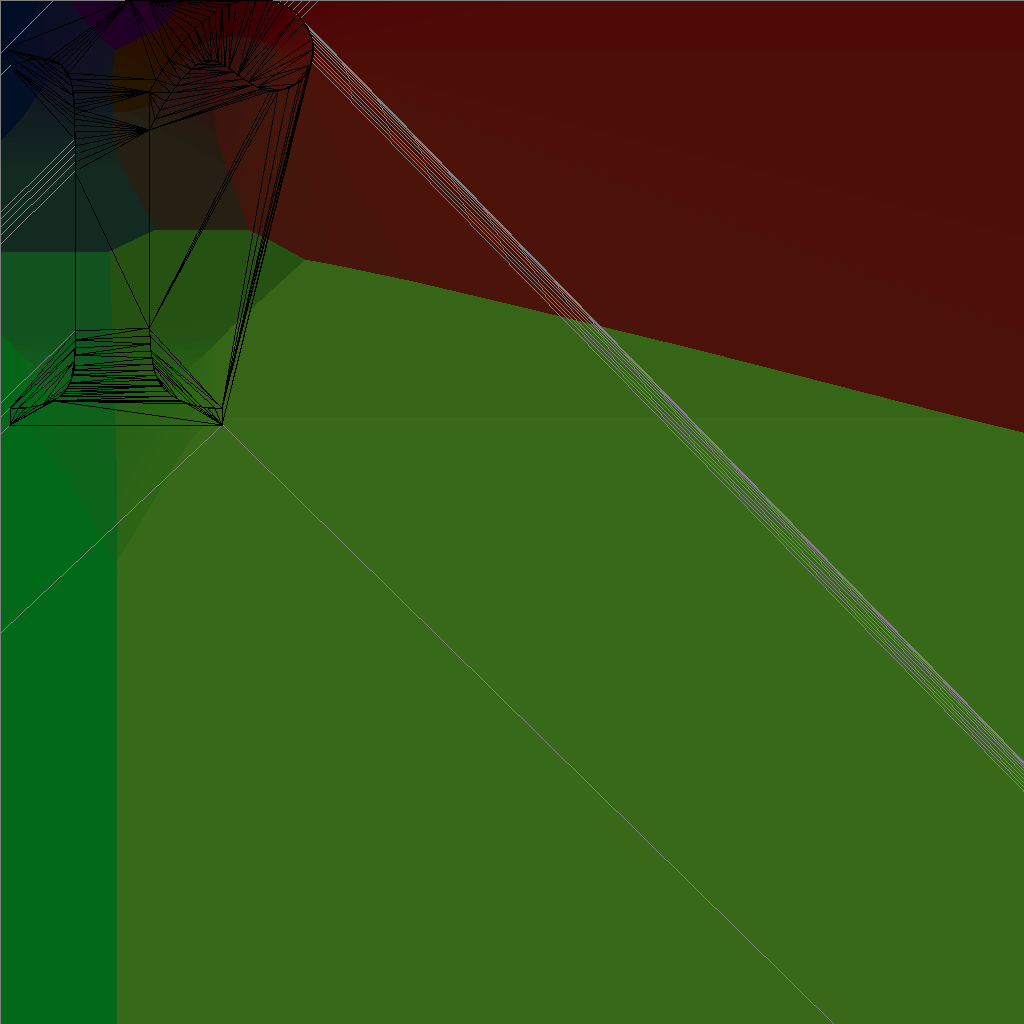
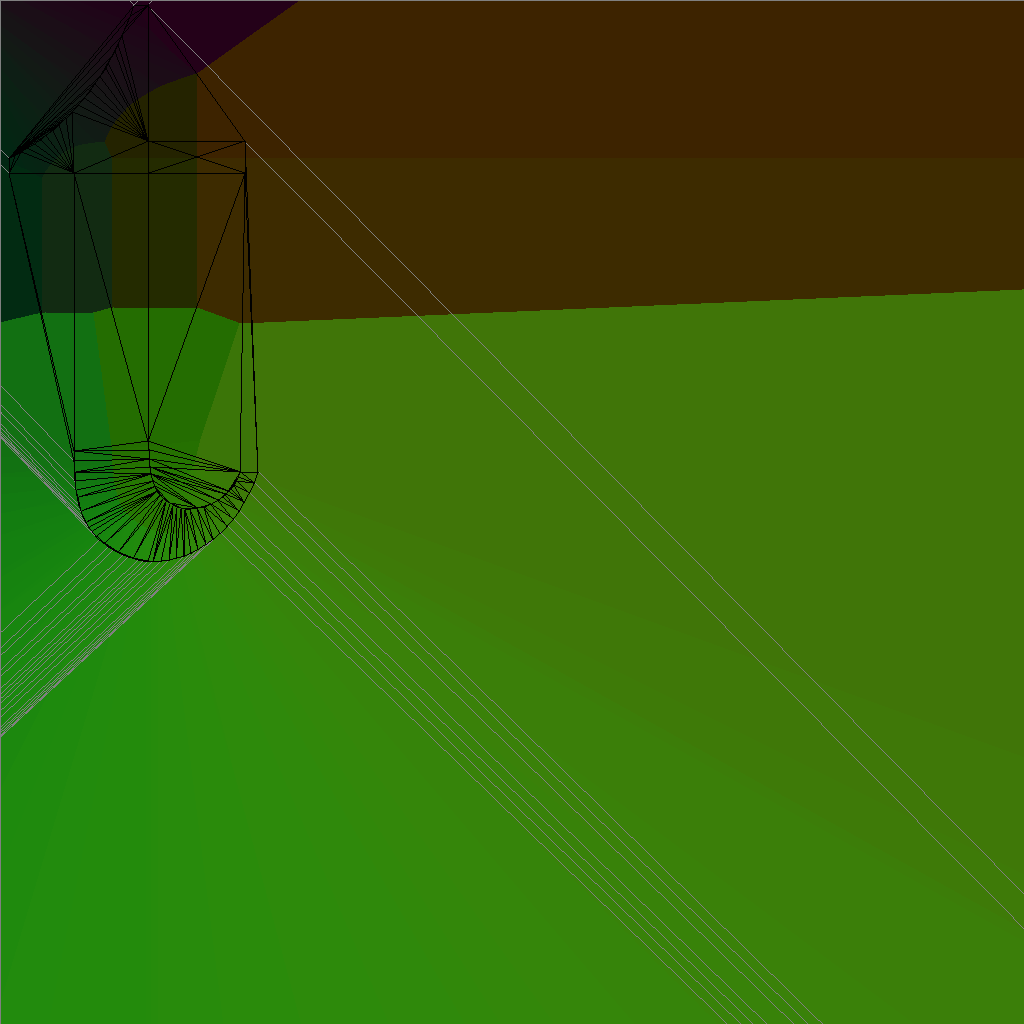
Fix triangle creation bug

diff --git a/src/main.rs b/src/main.rs
@@ -80,7 +80,7 @@ fn main() -> anyhow::Result<()> {
     let owned_face = ttfp::OwnedFace::from_vec(font.to_vec(), 0).unwrap();
     let parsed_face = ttfp::PreParsedSubtables::from(owned_face);
 
-    let glyph_id = parsed_face.glyph_index('r').unwrap();
+    let glyph_id = parsed_face.glyph_index('t').unwrap();
 
     let mut outliner = outliner::Outliner::new();
     let rect = parsed_face.as_face_ref().outline_glyph(glyph_id, &mut outliner).unwrap();

diff --git a/src/delaunay/factory.rs b/src/delaunay/factory.rs
@@ -88,8 +88,7 @@ impl DelaunayFactory {
         self.fix_convex_hull(dim, &points, &mut triangles, &voronoi_image_pixels)?;
         self.find_neighbours(&mut triangles)?;
 
-        let triangles = self
-            .build_triangles(voronoi_image, &points)?
+        let triangles = triangles
             .into_iter()
             .collect::<Arena<DelaunayTriangle>>();
         self.flip_triangles(&triangles, &points);
